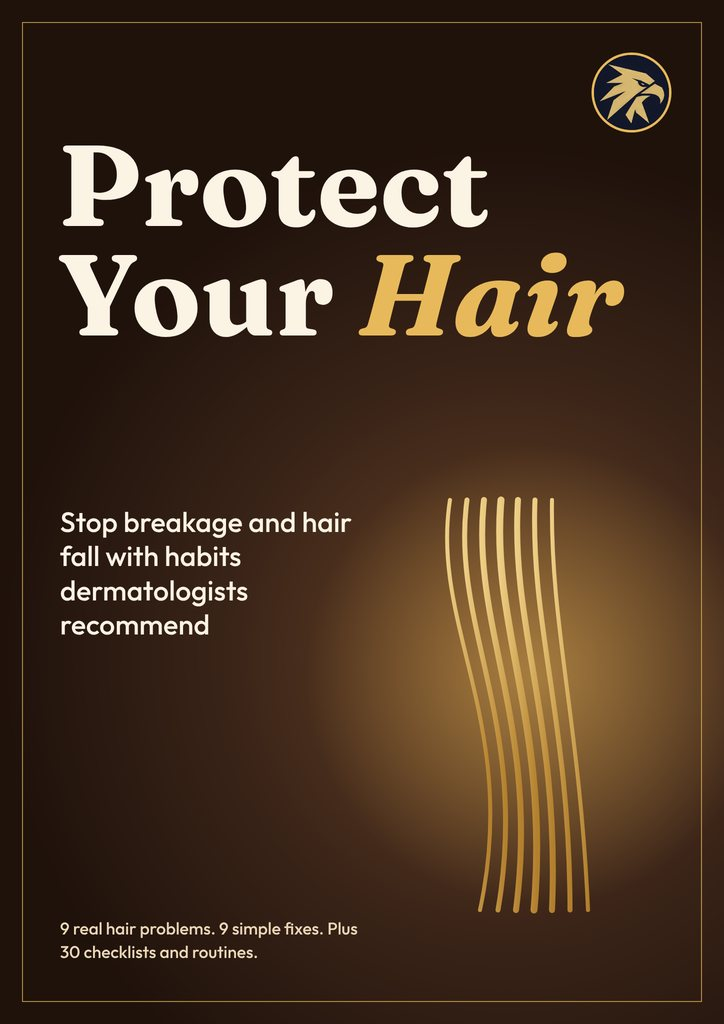
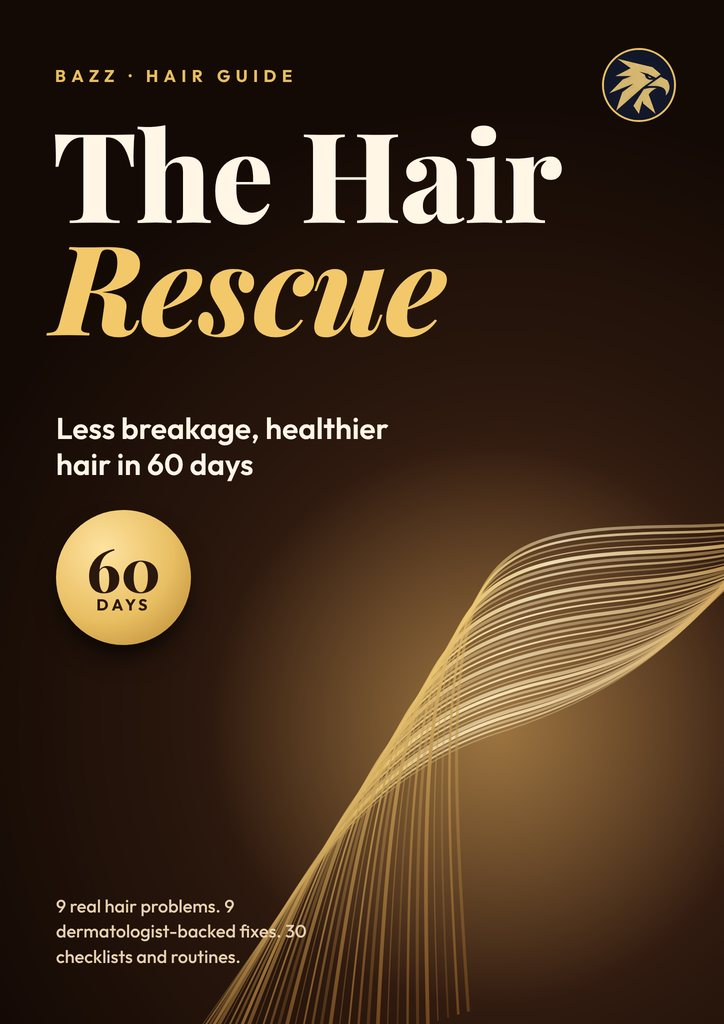
No colour glow on book click; The Hair Rescue and The Skin Reset with new covers (#38)

diff --git a/hair.html b/hair.html
@@ -3,21 +3,21 @@
 <head>
 <meta charset="utf-8">
 <meta name="viewport" content="width=device-width, initial-scale=1">
-<title>Protect Your Hair | Stop Breakage and Hair Fall</title>
-<meta name="description" content="Protect Your Hair ebook: 9 hair problems, 9 simple fixes from dermatologist advice, plus 30 checklists and routines.">
+<title>The Hair Rescue | Less Breakage, Healthier Hair in 60 Days</title>
+<meta name="description" content="The Hair Rescue ebook: 9 hair problems, 9 simple fixes from dermatologist advice, plus 30 checklists and routines.">
 <meta name="theme-color" content="#0C0F1A">
 <link rel="canonical" href="https://bazzcoffee336-web.github.io/BAZZ-Coffee/hair.html">
 <meta property="og:type" content="product"><meta property="og:site_name" content="BAZZ">
 <meta property="og:url" content="https://bazzcoffee336-web.github.io/BAZZ-Coffee/hair.html">
-<meta property="og:title" content="Protect Your Hair | Stop Breakage and Hair Fall">
-<meta property="og:description" content="Protect Your Hair ebook: 9 hair problems, 9 simple fixes from dermatologist advice, plus 30 checklists and routines.">
-<meta property="og:image" content="https://bazzcoffee336-web.github.io/BAZZ-Coffee/assets/cover-hair.jpg">
+<meta property="og:title" content="The Hair Rescue | Less Breakage, Healthier Hair in 60 Days">
+<meta property="og:description" content="The Hair Rescue ebook: 9 hair problems, 9 simple fixes from dermatologist advice, plus 30 checklists and routines.">
+<meta property="og:image" content="https://bazzcoffee336-web.github.io/BAZZ-Coffee/assets/cover-hair.jpg?v=2">
 <meta name="twitter:card" content="summary_large_image">
-<script type="application/ld+json">{"@context": "https://schema.org", "@type": "Book", "name": "Protect Your Hair", "bookFormat": "https://schema.org/EBook", "inLanguage": "en", "image": "https://bazzcoffee336-web.github.io/BAZZ-Coffee/assets/cover-hair.jpg", "description": "Protect Your Hair ebook: 9 hair problems, 9 simple fixes from dermatologist advice, plus 30 checklists and routines.", "brand": {"@type": "Brand", "name": "BAZZ"}, "publisher": {"@type": "Organization", "name": "BAZZ"}, "offers": {"@type": "Offer", "price": "99.99", "priceCurrency": "USD", "availability": "https://schema.org/PreOrder", "url": "https://bazzcoffee336-web.github.io/BAZZ-Coffee/hair.html"}}</script>
+<script type="application/ld+json">{"@context": "https://schema.org", "@type": "Book", "name": "The Hair Rescue", "bookFormat": "https://schema.org/EBook", "inLanguage": "en", "image": "https://bazzcoffee336-web.github.io/BAZZ-Coffee/assets/cover-hair.jpg?v=2", "description": "The Hair Rescue ebook: 9 hair problems, 9 simple fixes from dermatologist advice, plus 30 checklists and routines.", "brand": {"@type": "Brand", "name": "BAZZ"}, "publisher": {"@type": "Organization", "name": "BAZZ"}, "offers": {"@type": "Offer", "price": "99.99", "priceCurrency": "USD", "availability": "https://schema.org/PreOrder", "url": "https://bazzcoffee336-web.github.io/BAZZ-Coffee/hair.html"}}</script>
 <link rel="icon" type="image/png" sizes="32x32" href="assets/medal-32.png?v=3"><link rel="icon" type="image/png" sizes="64x64" href="assets/medal-64.png?v=3"><link rel="apple-touch-icon" href="assets/medal-180.png?v=3">
 <link rel="preconnect" href="https://fonts.googleapis.com"><link rel="preconnect" href="https://fonts.gstatic.com" crossorigin>
 <link href="https://fonts.googleapis.com/css2?family=DM+Serif+Display:ital@0;1&family=JetBrains+Mono&family=Manrope:wght@400;600;700&display=swap" rel="stylesheet">
-<link rel="stylesheet" href="assets/style.css?v=493228">
+<link rel="stylesheet" href="assets/style.css?v=494499">
 </head>
 <body>
 <a class="skip" href="#main">Skip to content</a>
@@ -34,12 +34,12 @@
 <main id="main">
   <header class="hero">
     <div class="stage3d" id="stage" aria-label="3D ebook." role="button">
-      <div class="fallback"><img src="assets/cover-hair.jpg" alt="Protect Your Hair ebook cover"></div>
+      <div class="fallback"><img src="assets/cover-hair.jpg?v=2" alt="The Hair Rescue ebook cover"></div>
     </div>
     <div>
       <p class="kick">Ebook &middot; PDF</p>
-      <h1>Protect Your Hair</h1>
-      <p class="lede">Stop breakage and hair fall with habits dermatologists recommend. 9 real hair problems, 9 simple fixes, and 30 checklists and routines you can use today.</p>
+      <h1>The Hair Rescue</h1>
+      <p class="lede">Less breakage, healthier hair in 60 days, with habits dermatologists recommend. 9 real hair problems, 9 simple fixes, and 30 checklists and routines you can use today.</p>
       <div class="cta-row">
         <a class="btn" href="#buy">Get the ebook, $99.99 <span aria-hidden="true">&rarr;</span></a>
         <a class="btn ghost" href="#details">What's inside</a>
@@ -93,10 +93,10 @@
     <p class="label reveal">Look inside</p>
     <h2 class="reveal">A few real pages from the book</h2>
     <div class="pages reveal">
-      <figure><img src="assets/hair-page-1.jpg" alt="Chapter 1 opening page" loading="lazy" width="700" height="990"><figcaption>Chapter opener</figcaption></figure>
-      <figure><img src="assets/hair-page-2.jpg" alt="Before and after example" loading="lazy" width="700" height="990"><figcaption>Inside a chapter</figcaption></figure>
-      <figure><img src="assets/hair-page-3.jpg" alt="Chapter 3 page" loading="lazy" width="700" height="990"><figcaption>Fixes and examples</figcaption></figure>
-      <figure><img src="assets/hair-page-4.jpg" alt="Bonus prompts page" loading="lazy" width="700" height="990"><figcaption>Bonus</figcaption></figure>
+      <figure><img src="assets/hair-page-1.jpg?v=2" alt="Chapter 1 opening page" loading="lazy" width="700" height="990"><figcaption>Chapter opener</figcaption></figure>
+      <figure><img src="assets/hair-page-2.jpg?v=2" alt="Before and after example" loading="lazy" width="700" height="990"><figcaption>Inside a chapter</figcaption></figure>
+      <figure><img src="assets/hair-page-3.jpg?v=2" alt="Chapter 3 page" loading="lazy" width="700" height="990"><figcaption>Fixes and examples</figcaption></figure>
+      <figure><img src="assets/hair-page-4.jpg?v=2" alt="Bonus prompts page" loading="lazy" width="700" height="990"><figcaption>Bonus</figcaption></figure>
     </div>
   </section>
 
@@ -104,7 +104,7 @@
     <div class="buy">
       <div>
         <p class="label reveal">Get your copy</p>
-        <h2 class="reveal">Start protecting your hair this week.</h2>
+        <h2 class="reveal">Start your hair rescue this week.</h2>
         <p class="lede reveal" style="color:#C9C5D6">Read one chapter a day. Each takes about 10 minutes, and each ends with something you can use right away.</p>
       </div>
       <div class="box reveal">
@@ -140,14 +140,14 @@
 </main>
 
 <footer>
-  <span>&copy; 2026 Protect Your Hair. General education, not medical advice.</span>
+  <span>&copy; 2026 The Hair Rescue. General education, not medical advice.</span>
   <ul><li><a href="index.html">Home</a></li><li><a href="#faq">FAQ</a></li><li><a href="mailto:bazzcoffee336@gmail.com">Contact</a></li></ul>
 </footer>
 
 <script type="module">
   import { mountBook } from './assets/book3d.js';
-  mountBook(document.getElementById('stage'), { color: '#D9A441', bg: '#3A2418', cover: 'assets/cover-hair.jpg', title: 'Protect Your Hair', back1: 'Stop breakage', back2: 'and hair fall' });
+  mountBook(document.getElementById('stage'), { color: '#D9A441', bg: '#3A2418', cover: 'assets/cover-hair.jpg?v=2', title: 'The Hair Rescue', back1: 'Less breakage', back2: 'healthier hair in 60 days' });
 </script>
-<script src="assets/site.js?v=493228"></script>
+<script src="assets/site.js?v=494499"></script>
 </body>
 </html>

diff --git a/face.html b/face.html
@@ -3,21 +3,21 @@
 <head>
 <meta charset="utf-8">
 <meta name="viewport" content="width=device-width, initial-scale=1">
-<title>Protect Your Face | A Simple Routine for Healthy Skin</title>
-<meta name="description" content="Protect Your Face ebook: 9 skin problems, 9 simple fixes from dermatologist advice, plus 30 checklists and routines.">
+<title>The Skin Reset | A 3-Step Routine for Clear, Healthy Skin</title>
+<meta name="description" content="The Skin Reset ebook: 9 skin problems, 9 simple fixes from dermatologist advice, plus 30 checklists and routines.">
 <meta name="theme-color" content="#0C0F1A">
 <link rel="canonical" href="https://bazzcoffee336-web.github.io/BAZZ-Coffee/face.html">
 <meta property="og:type" content="product"><meta property="og:site_name" content="BAZZ">
 <meta property="og:url" content="https://bazzcoffee336-web.github.io/BAZZ-Coffee/face.html">
-<meta property="og:title" content="Protect Your Face | A Simple Routine for Healthy Skin">
-<meta property="og:description" content="Protect Your Face ebook: 9 skin problems, 9 simple fixes from dermatologist advice, plus 30 checklists and routines.">
-<meta property="og:image" content="https://bazzcoffee336-web.github.io/BAZZ-Coffee/assets/cover-face.jpg">
+<meta property="og:title" content="The Skin Reset | A 3-Step Routine for Clear, Healthy Skin">
+<meta property="og:description" content="The Skin Reset ebook: 9 skin problems, 9 simple fixes from dermatologist advice, plus 30 checklists and routines.">
+<meta property="og:image" content="https://bazzcoffee336-web.github.io/BAZZ-Coffee/assets/cover-face.jpg?v=2">
 <meta name="twitter:card" content="summary_large_image">
-<script type="application/ld+json">{"@context": "https://schema.org", "@type": "Book", "name": "Protect Your Face", "bookFormat": "https://schema.org/EBook", "inLanguage": "en", "image": "https://bazzcoffee336-web.github.io/BAZZ-Coffee/assets/cover-face.jpg", "description": "Protect Your Face ebook: 9 skin problems, 9 simple fixes from dermatologist advice, plus 30 checklists and routines.", "brand": {"@type": "Brand", "name": "BAZZ"}, "publisher": {"@type": "Organization", "name": "BAZZ"}, "offers": {"@type": "Offer", "price": "99.99", "priceCurrency": "USD", "availability": "https://schema.org/PreOrder", "url": "https://bazzcoffee336-web.github.io/BAZZ-Coffee/face.html"}}</script>
+<script type="application/ld+json">{"@context": "https://schema.org", "@type": "Book", "name": "The Skin Reset", "bookFormat": "https://schema.org/EBook", "inLanguage": "en", "image": "https://bazzcoffee336-web.github.io/BAZZ-Coffee/assets/cover-face.jpg?v=2", "description": "The Skin Reset ebook: 9 skin problems, 9 simple fixes from dermatologist advice, plus 30 checklists and routines.", "brand": {"@type": "Brand", "name": "BAZZ"}, "publisher": {"@type": "Organization", "name": "BAZZ"}, "offers": {"@type": "Offer", "price": "99.99", "priceCurrency": "USD", "availability": "https://schema.org/PreOrder", "url": "https://bazzcoffee336-web.github.io/BAZZ-Coffee/face.html"}}</script>
 <link rel="icon" type="image/png" sizes="32x32" href="assets/medal-32.png?v=3"><link rel="icon" type="image/png" sizes="64x64" href="assets/medal-64.png?v=3"><link rel="apple-touch-icon" href="assets/medal-180.png?v=3">
 <link rel="preconnect" href="https://fonts.googleapis.com"><link rel="preconnect" href="https://fonts.gstatic.com" crossorigin>
 <link href="https://fonts.googleapis.com/css2?family=DM+Serif+Display:ital@0;1&family=JetBrains+Mono&family=Manrope:wght@400;600;700&display=swap" rel="stylesheet">
-<link rel="stylesheet" href="assets/style.css?v=493228">
+<link rel="stylesheet" href="assets/style.css?v=494499">
 </head>
 <body>
 <a class="skip" href="#main">Skip to content</a>
@@ -34,12 +34,12 @@
 <main id="main">
   <header class="hero">
     <div class="stage3d" id="stage" aria-label="3D ebook." role="button">
-      <div class="fallback"><img src="assets/cover-face.jpg" alt="Protect Your Face ebook cover"></div>
+      <div class="fallback"><img src="assets/cover-face.jpg?v=2" alt="The Skin Reset ebook cover"></div>
     </div>
     <div>
       <p class="kick">Ebook &middot; PDF</p>
-      <h1>Protect Your Face</h1>
-      <p class="lede">A simple daily routine for clear, healthy skin. 9 real skin problems, 9 simple fixes, and 30 checklists and routines you can use today.</p>
+      <h1>The Skin Reset</h1>
+      <p class="lede">A 3-step routine for clear, healthy skin, the way dermatologists recommend. 9 real skin problems, 9 simple fixes, and 30 checklists and routines you can use today.</p>
       <div class="cta-row">
         <a class="btn" href="#buy">Get the ebook, $99.99 <span aria-hidden="true">&rarr;</span></a>
         <a class="btn ghost" href="#details">What's inside</a>
@@ -93,10 +93,10 @@
     <p class="label reveal">Look inside</p>
     <h2 class="reveal">A few real pages from the book</h2>
     <div class="pages reveal">
-      <figure><img src="assets/face-page-1.jpg" alt="Chapter 1 opening page" loading="lazy" width="700" height="990"><figcaption>Chapter opener</figcaption></figure>
-      <figure><img src="assets/face-page-2.jpg" alt="Before and after example" loading="lazy" width="700" height="990"><figcaption>Inside a chapter</figcaption></figure>
-      <figure><img src="assets/face-page-3.jpg" alt="Chapter 3 page" loading="lazy" width="700" height="990"><figcaption>Fixes and examples</figcaption></figure>
-      <figure><img src="assets/face-page-4.jpg" alt="Bonus prompts page" loading="lazy" width="700" height="990"><figcaption>Bonus</figcaption></figure>
+      <figure><img src="assets/face-page-1.jpg?v=2" alt="Chapter 1 opening page" loading="lazy" width="700" height="990"><figcaption>Chapter opener</figcaption></figure>
+      <figure><img src="assets/face-page-2.jpg?v=2" alt="Before and after example" loading="lazy" width="700" height="990"><figcaption>Inside a chapter</figcaption></figure>
+      <figure><img src="assets/face-page-3.jpg?v=2" alt="Chapter 3 page" loading="lazy" width="700" height="990"><figcaption>Fixes and examples</figcaption></figure>
+      <figure><img src="assets/face-page-4.jpg?v=2" alt="Bonus prompts page" loading="lazy" width="700" height="990"><figcaption>Bonus</figcaption></figure>
     </div>
   </section>
 
@@ -104,7 +104,7 @@
     <div class="buy">
       <div>
         <p class="label reveal">Get your copy</p>
-        <h2 class="reveal">Start protecting your face this week.</h2>
+        <h2 class="reveal">Start your skin reset this week.</h2>
         <p class="lede reveal" style="color:#C9C5D6">Read one chapter a day. Each takes about 10 minutes, and each ends with something you can use right away.</p>
       </div>
       <div class="box reveal">
@@ -140,14 +140,14 @@
 </main>
 
 <footer>
-  <span>&copy; 2026 Protect Your Face. General education, not medical advice.</span>
+  <span>&copy; 2026 The Skin Reset. General education, not medical advice.</span>
   <ul><li><a href="index.html">Home</a></li><li><a href="#faq">FAQ</a></li><li><a href="mailto:bazzcoffee336@gmail.com">Contact</a></li></ul>
 </footer>
 
 <script type="module">
   import { mountBook } from './assets/book3d.js';
-  mountBook(document.getElementById('stage'), { color: '#F2A98C', bg: '#1F4F4A', cover: 'assets/cover-face.jpg', title: 'Protect Your Face', back1: 'Three steps', back2: 'every day' });
+  mountBook(document.getElementById('stage'), { color: '#F2A98C', bg: '#1F4F4A', cover: 'assets/cover-face.jpg?v=2', title: 'The Skin Reset', back1: 'Clear, healthy skin', back2: 'in 3 simple steps' });
 </script>
-<script src="assets/site.js?v=493228"></script>
+<script src="assets/site.js?v=494499"></script>
 </body>
 </html>

diff --git a/index.html b/index.html
@@ -22,7 +22,7 @@
 <link rel="icon" type="image/png" sizes="32x32" href="assets/medal-32.png?v=3"><link rel="icon" type="image/png" sizes="64x64" href="assets/medal-64.png?v=3"><link rel="apple-touch-icon" href="assets/medal-180.png?v=3">
 <link rel="preconnect" href="https://fonts.googleapis.com"><link rel="preconnect" href="https://fonts.gstatic.com" crossorigin>
 <link href="https://fonts.googleapis.com/css2?family=DM+Serif+Display:ital@0;1&family=JetBrains+Mono&family=Manrope:wght@400;600;700&display=swap" rel="stylesheet">
-<link rel="stylesheet" href="assets/style.css?v=493228">
+<link rel="stylesheet" href="assets/style.css?v=494499">
 <script>try{if(sessionStorage.getItem('bazz-welcome'))document.documentElement.classList.add('welcomed')}catch(e){}</script>
 </head>
 <body>
@@ -119,13 +119,13 @@
         <span class="nic"><span class="lamp" aria-hidden="true"></span><span class="wash" aria-hidden="true"></span><img src="assets/cover-fit.jpg" alt="The 20-Minute Home Workout cover" loading="lazy" width="724" height="1024"><span class="glint" aria-hidden="true"></span><img class="refl" src="assets/cover-fit.jpg" alt="" aria-hidden="true" loading="lazy" width="724" height="1024"></span>
         <span class="nic-info"><span class="bk-tag">Fitness</span><b>The 20-Minute Home Workout</b><span>Get fit at home without a gym.</span><em>$99.99 &rarr;</em></span>
       </a>
-      <a aria-label="Protect Your Hair, $99.99" class="bk niche" href="hair.html" style="--c:#D9A441">
-        <span class="nic"><span class="lamp" aria-hidden="true"></span><span class="wash" aria-hidden="true"></span><img src="assets/cover-hair.jpg" alt="Protect Your Hair cover" loading="lazy" width="724" height="1024"><span class="glint" aria-hidden="true"></span><img class="refl" src="assets/cover-hair.jpg" alt="" aria-hidden="true" loading="lazy" width="724" height="1024"></span>
-        <span class="nic-info"><span class="bk-tag">Hair</span><b>Protect Your Hair</b><span>Stop breakage and hair fall.</span><em>$99.99 &rarr;</em></span>
+      <a aria-label="The Hair Rescue, $99.99" class="bk niche" href="hair.html" style="--c:#D9A441">
+        <span class="nic"><span class="lamp" aria-hidden="true"></span><span class="wash" aria-hidden="true"></span><img src="assets/cover-hair.jpg?v=2" alt="The Hair Rescue cover" loading="lazy" width="724" height="1024"><span class="glint" aria-hidden="true"></span><img class="refl" src="assets/cover-hair.jpg?v=2" alt="" aria-hidden="true" loading="lazy" width="724" height="1024"></span>
+        <span class="nic-info"><span class="bk-tag">Hair</span><b>The Hair Rescue</b><span>Less breakage, healthier hair in 60 days.</span><em>$99.99 &rarr;</em></span>
       </a>
-      <a aria-label="Protect Your Face, $99.99" class="bk niche" href="face.html" style="--c:#F2A98C">
-        <span class="nic"><span class="lamp" aria-hidden="true"></span><span class="wash" aria-hidden="true"></span><img src="assets/cover-face.jpg" alt="Protect Your Face cover" loading="lazy" width="724" height="1024"><span class="glint" aria-hidden="true"></span><img class="refl" src="assets/cover-face.jpg" alt="" aria-hidden="true" loading="lazy" width="724" height="1024"></span>
-        <span class="nic-info"><span class="bk-tag">Skin</span><b>Protect Your Face</b><span>A simple routine for healthy skin.</span><em>$99.99 &rarr;</em></span>
+      <a aria-label="The Skin Reset, $99.99" class="bk niche" href="face.html" style="--c:#F2A98C">
+        <span class="nic"><span class="lamp" aria-hidden="true"></span><span class="wash" aria-hidden="true"></span><img src="assets/cover-face.jpg?v=2" alt="The Skin Reset cover" loading="lazy" width="724" height="1024"><span class="glint" aria-hidden="true"></span><img class="refl" src="assets/cover-face.jpg?v=2" alt="" aria-hidden="true" loading="lazy" width="724" height="1024"></span>
+        <span class="nic-info"><span class="bk-tag">Skin</span><b>The Skin Reset</b><span>A 3-step routine for clear, healthy skin.</span><em>$99.99 &rarr;</em></span>
       </a>
     </div>
     <div class="floor" aria-hidden="true"></div>
@@ -181,7 +181,7 @@
 <script type="module">
   import { mountLogo } from './assets/logo3d.js';
   mountLogo(document.getElementById('medal'));
-  import('./assets/books3d.js?v=4').then(({ mountBooks }) => {
+  import('./assets/books3d.js?v=5').then(({ mountBooks }) => {
     const sec = document.getElementById('books');
     const ok = mountBooks(document.getElementById('books3d'), [
       { cover: 'assets/cover.jpg', title: 'AI for Beginners', color: '#0F1B2D', ink: '#14B8C9', url: 'product.html' },
@@ -189,8 +189,8 @@
       { cover: 'assets/cover-calm.jpg', title: 'Quiet Mind, Deep Sleep', color: '#1E2152', ink: '#B7A6F2', url: 'calm.html' },
       { cover: 'assets/cover-career.jpg', title: 'Hired in 30 Days', color: '#12372A', ink: '#C8A24A', url: 'career.html' },
       { cover: 'assets/cover-fit.jpg', title: '20-Minute Home Workout', color: '#1E1E20', ink: '#FF6A2B', url: 'fitness.html' },
-      { cover: 'assets/cover-hair.jpg', title: 'Protect Your Hair', color: '#3A2418', ink: '#E7B95A', url: 'hair.html' },
-      { cover: 'assets/cover-face.jpg', title: 'Protect Your Face', color: '#1F4F4A', ink: '#F6BBA2', url: 'face.html' },
+      { cover: 'assets/cover-hair.jpg?v=2', title: 'The Hair Rescue', color: '#3A2418', ink: '#E7B95A', url: 'hair.html' },
+      { cover: 'assets/cover-face.jpg?v=2', title: 'The Skin Reset', color: '#1F4F4A', ink: '#F6BBA2', url: 'face.html' },
     ], url => (window.bazzGo || (u => location.href = u))(url));
     if (ok) { sec.classList.remove('night-wall', 'rock'); sec.classList.add('sky-books'); }
   });
@@ -217,8 +217,7 @@
   // clicking a book: the page takes that book's colour, then opens its page
   const AURA = { 'product.html': '#14B8C9', 'money.html': '#D9A38B', 'calm.html': '#B7A6F2', 'career.html': '#C8A24A', 'fitness.html': '#FF6A2B', 'hair.html': '#D9A441', 'face.html': '#F2A98C' };
   window.bazzGo = url => {
-    document.documentElement.style.setProperty('--aura', AURA[url] || '#C9B48F'); document.body.classList.add('aura-on', 'aura-go');
-    setTimeout(() => { location.href = url; }, matchMedia('(prefers-reduced-motion: reduce)').matches ? 0 : 650);
+    location.href = url;
   };
   document.querySelectorAll('.bk').forEach(a => a.addEventListener('click', e => {
     if (e.metaKey || e.ctrlKey || e.shiftKey || e.button) return; e.preventDefault(); bazzGo(a.getAttribute('href'));
@@ -235,6 +234,6 @@
     }, { threshold: .25 }).observe(wall);
   })();
 </script>
-<script src="assets/site.js?v=493228"></script>
+<script src="assets/site.js?v=494499"></script>
 </body>
 </html>

diff --git a/fitness.html b/fitness.html
@@ -17,7 +17,7 @@
 <link rel="icon" type="image/png" sizes="32x32" href="assets/medal-32.png?v=3"><link rel="icon" type="image/png" sizes="64x64" href="assets/medal-64.png?v=3"><link rel="apple-touch-icon" href="assets/medal-180.png?v=3">
 <link rel="preconnect" href="https://fonts.googleapis.com"><link rel="preconnect" href="https://fonts.gstatic.com" crossorigin>
 <link href="https://fonts.googleapis.com/css2?family=DM+Serif+Display:ital@0;1&family=JetBrains+Mono&family=Manrope:wght@400;600;700&display=swap" rel="stylesheet">
-<link rel="stylesheet" href="assets/style.css?v=493228">
+<link rel="stylesheet" href="assets/style.css?v=494499">
 </head>
 <body>
 <a class="skip" href="#main">Skip to content</a>
@@ -148,6 +148,6 @@
   import { mountBook } from './assets/book3d.js';
   mountBook(document.getElementById('stage'), { color: '#FF6A2B', bg: '#1E1E20', cover: 'assets/cover-fit.jpg', title: 'The 20-Minute Home Workout', back1: 'Get fit without a gym', back2: '20 minutes at a time' });
 </script>
-<script src="assets/site.js?v=493228"></script>
+<script src="assets/site.js?v=494499"></script>
 </body>
 </html>

diff --git a/calm.html b/calm.html
@@ -17,7 +17,7 @@
 <link rel="icon" type="image/png" sizes="32x32" href="assets/medal-32.png?v=3"><link rel="icon" type="image/png" sizes="64x64" href="assets/medal-64.png?v=3"><link rel="apple-touch-icon" href="assets/medal-180.png?v=3">
 <link rel="preconnect" href="https://fonts.googleapis.com"><link rel="preconnect" href="https://fonts.gstatic.com" crossorigin>
 <link href="https://fonts.googleapis.com/css2?family=DM+Serif+Display:ital@0;1&family=JetBrains+Mono&family=Manrope:wght@400;600;700&display=swap" rel="stylesheet">
-<link rel="stylesheet" href="assets/style.css?v=493228">
+<link rel="stylesheet" href="assets/style.css?v=494499">
 </head>
 <body>
 <a class="skip" href="#main">Skip to content</a>
@@ -148,6 +148,6 @@
   import { mountBook } from './assets/book3d.js';
   mountBook(document.getElementById('stage'), { color: '#B7A6F2', bg: '#1E2152', cover: 'assets/cover-calm.jpg', title: 'Quiet Mind, Deep Sleep', back1: 'Stop overthinking', back2: 'Sleep better in 21 days' });
 </script>
-<script src="assets/site.js?v=493228"></script>
+<script src="assets/site.js?v=494499"></script>
 </body>
 </html>

diff --git a/career.html b/career.html
@@ -17,7 +17,7 @@
 <link rel="icon" type="image/png" sizes="32x32" href="assets/medal-32.png?v=3"><link rel="icon" type="image/png" sizes="64x64" href="assets/medal-64.png?v=3"><link rel="apple-touch-icon" href="assets/medal-180.png?v=3">
 <link rel="preconnect" href="https://fonts.googleapis.com"><link rel="preconnect" href="https://fonts.gstatic.com" crossorigin>
 <link href="https://fonts.googleapis.com/css2?family=DM+Serif+Display:ital@0;1&family=JetBrains+Mono&family=Manrope:wght@400;600;700&display=swap" rel="stylesheet">
-<link rel="stylesheet" href="assets/style.css?v=493228">
+<link rel="stylesheet" href="assets/style.css?v=494499">
 </head>
 <body>
 <a class="skip" href="#main">Skip to content</a>
@@ -148,6 +148,6 @@
   import { mountBook } from './assets/book3d.js';
   mountBook(document.getElementById('stage'), { color: '#C8A24A', bg: '#12372A', cover: 'assets/cover-career.jpg', title: 'Hired in 30 Days', back1: 'Land a better job', back2: 'without applying everywhere' });
 </script>
-<script src="assets/site.js?v=493228"></script>
+<script src="assets/site.js?v=494499"></script>
 </body>
 </html>

diff --git a/money.html b/money.html
@@ -17,7 +17,7 @@
 <link rel="icon" type="image/png" sizes="32x32" href="assets/medal-32.png?v=3"><link rel="icon" type="image/png" sizes="64x64" href="assets/medal-64.png?v=3"><link rel="apple-touch-icon" href="assets/medal-180.png?v=3">
 <link rel="preconnect" href="https://fonts.googleapis.com"><link rel="preconnect" href="https://fonts.gstatic.com" crossorigin>
 <link href="https://fonts.googleapis.com/css2?family=DM+Serif+Display:ital@0;1&family=JetBrains+Mono&family=Manrope:wght@400;600;700&display=swap" rel="stylesheet">
-<link rel="stylesheet" href="assets/style.css?v=493228">
+<link rel="stylesheet" href="assets/style.css?v=494499">
 </head>
 <body>
 <a class="skip" href="#main">Skip to content</a>
@@ -148,6 +148,6 @@
   import { mountBook } from './assets/book3d.js';
   mountBook(document.getElementById('stage'), { color: '#D9A38B', bg: '#6B1E3A', cover: 'assets/cover-money.jpg', title: 'Paycheck to Peace', back1: 'Stop living paycheck', back2: 'to paycheck in 90 days' });
 </script>
-<script src="assets/site.js?v=493228"></script>
+<script src="assets/site.js?v=494499"></script>
 </body>
 </html>

diff --git a/product.html b/product.html
@@ -17,7 +17,7 @@
 <link rel="icon" type="image/png" sizes="32x32" href="assets/medal-32.png?v=3"><link rel="icon" type="image/png" sizes="64x64" href="assets/medal-64.png?v=3"><link rel="apple-touch-icon" href="assets/medal-180.png?v=3">
 <link rel="preconnect" href="https://fonts.googleapis.com"><link rel="preconnect" href="https://fonts.gstatic.com" crossorigin>
 <link href="https://fonts.googleapis.com/css2?family=DM+Serif+Display:ital@0;1&family=JetBrains+Mono&family=Manrope:wght@400;600;700&display=swap" rel="stylesheet">
-<link rel="stylesheet" href="assets/style.css?v=493228">
+<link rel="stylesheet" href="assets/style.css?v=494499">
 </head>
 <body>
 <a class="skip" href="#main">Skip to content</a>
@@ -148,6 +148,6 @@
   import { mountBook } from './assets/book3d.js';
   mountBook(document.getElementById('stage'), { color: '#14B8C9', bg: '#0F1B2D' });
 </script>
-<script src="assets/site.js?v=493228"></script>
+<script src="assets/site.js?v=494499"></script>
 </body>
 </html>
